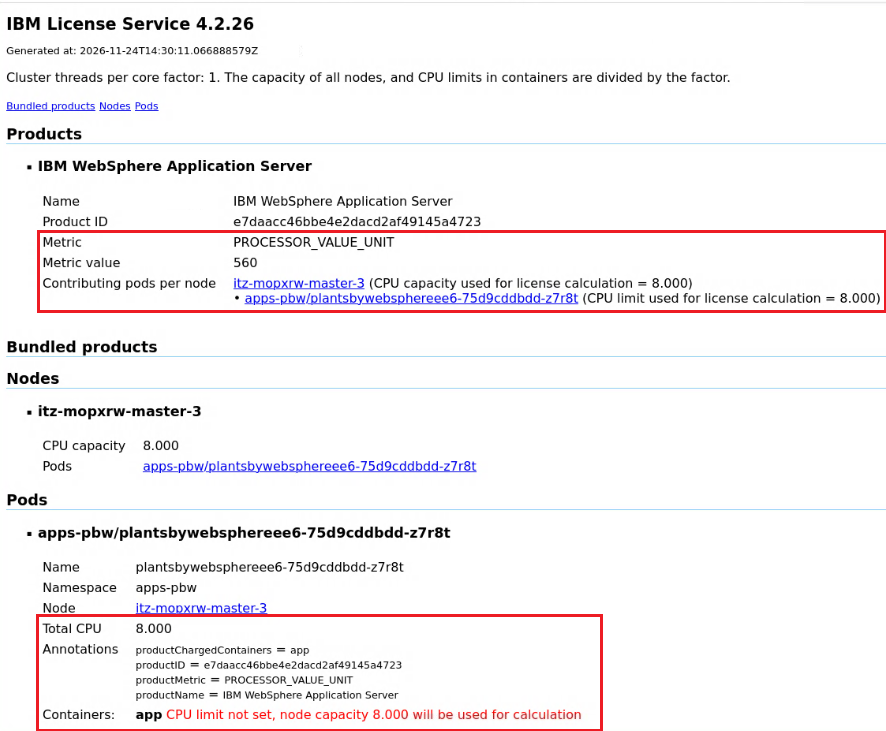
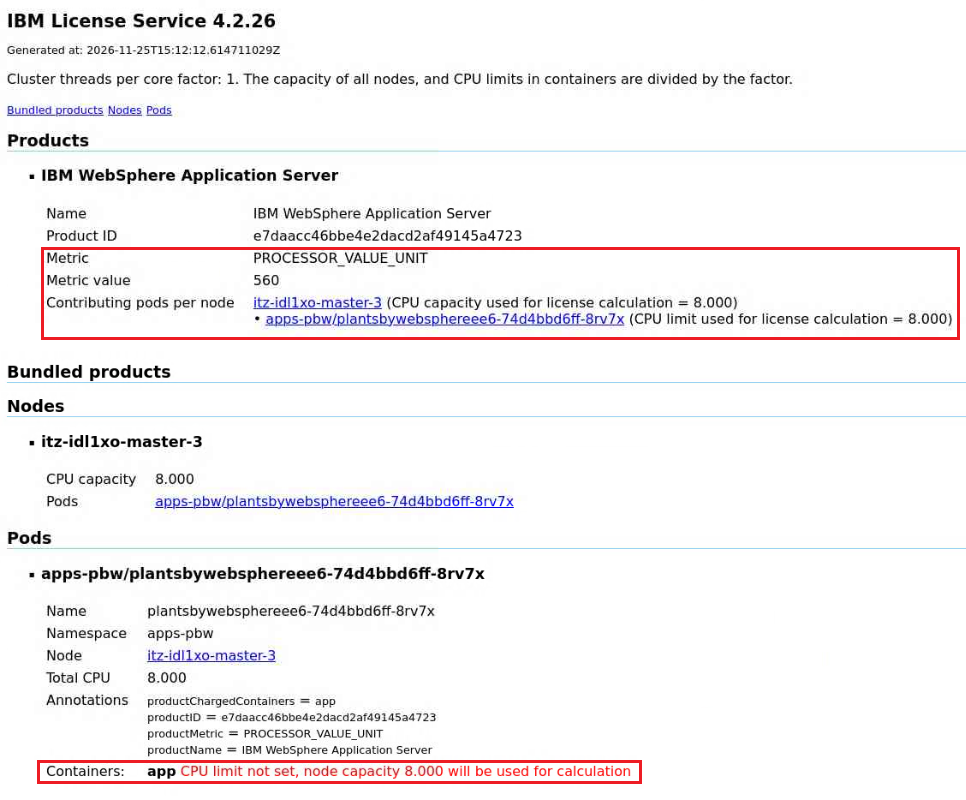
Add bundled products

Changed region(s): [[0.0, 0.0, 1.0, 1.0]]

diff --git a/ILS_README.md b/ILS_README.md
@@ -579,7 +579,7 @@ Start from scratch without any deployment:
 
 5. Access the **IBM License Service** page for **Products**:
 
-    The product page shows all products that have been discovered over time.
+    The product page shows all products that have been discovered over time. For each product, the peak value is shown.
 
        export LICENSING_URL=$(oc get route -n ibm-licensing -o jsonpath='{range .items[*]}{.spec.host}{"\n"}{end}')
 
@@ -628,7 +628,7 @@ Start from scratch without any deployment:
 
 9. Access the **IBM License Service** page for **Products**:
 
-    The product page shows all products that have been discovered over time.
+    The product page shows all products that have been discovered over time. For each product, the peak value is shown.
 
        export LICENSING_URL=$(oc get route -n ibm-licensing -o jsonpath='{range .items[*]}{.spec.host}{"\n"}{end}')
 
@@ -636,12 +636,27 @@ Start from scratch without any deployment:
 
        /usr/bin/xdg-open "https://${LICENSING_URL}/products?token=${TOKEN}"
 
-    ![ILS_Product_Page_WAS](./images/media/ILS_Products_Page_WAS.png)
+    ![ILS_Products_Page_WAS_EAR](./images/media/ILS_Products_Page_WAS_EAR.png)
 
-    If WebSphere Application Server is not listed there, wait a moment and then reload the page.
+    The page should now show WAS as well as EAR. If EAR is not listed there, wait a moment and then reload the page.
+
+10. Access the **IBM License Service** page for **Bundled Products**:
+
+    The bundled product page shows all bundled products that have been discovered over time. For each product, the peak value is shown.
+
+       export LICENSING_URL=$(oc get route -n ibm-licensing -o jsonpath='{range .items[*]}{.spec.host}{"\n"}{end}')
+
+       export TOKEN=$(kubectl get secret ibm-licensing-token -n ibm-licensing -o jsonpath='{.data.token}' |base64 -d)
+
+       /usr/bin/xdg-open "https://${LICENSING_URL}/bundled_products?token=${TOKEN}"
+
+    ![ILS_Products_Page_WAS_EAR](./images/media/ILS_Products_Page_WAS_EAR.png)
+
+    The page should now show WAS as well as EAR. If EAR is not listed there, wait a moment and then reload the page.
 
 
-9. Add a cpu limit to avoid that the whole worker node must be licensed.
+
+10. Add a cpu limit to avoid that the whole worker node must be licensed.
 
     Go back to the open editor or open a new one.
 
@@ -661,7 +676,7 @@ Start from scratch without any deployment:
     Make sure that the number of spaces before `resources` is correct, otherwise the deployment will fail.
     Save the changes but keep the editor open.
 
-10. Apply the changes and see the results: 
+11. Apply the changes and see the results: 
    
         cd ~/Student/deploy
         oc apply -n apps-pbw -f dev/application-cr.yaml
@@ -674,7 +689,7 @@ Start from scratch without any deployment:
     - The total number of cores running WebSphere Liberty Base is 0.8 which will be rounded up to 1 core, which results in a WAS metric value of 1.
     - As only 1 core must be licensed with WAS Base and the EAR ratio 11:2 applies, the EAR metric value is 2.
 
-11. Add additional replicas.
+12. Add additional replicas.
 
     Go back to the open editor or open a new one.
 
@@ -686,7 +701,7 @@ Start from scratch without any deployment:
 
     Save the changes and feel free to close the editor.
 
-12. Apply the changes and see the results: 
+13. Apply the changes and see the results: 
    
         cd ~/Student/deploy
         oc apply -n apps-pbw -f dev/application-cr.yaml
